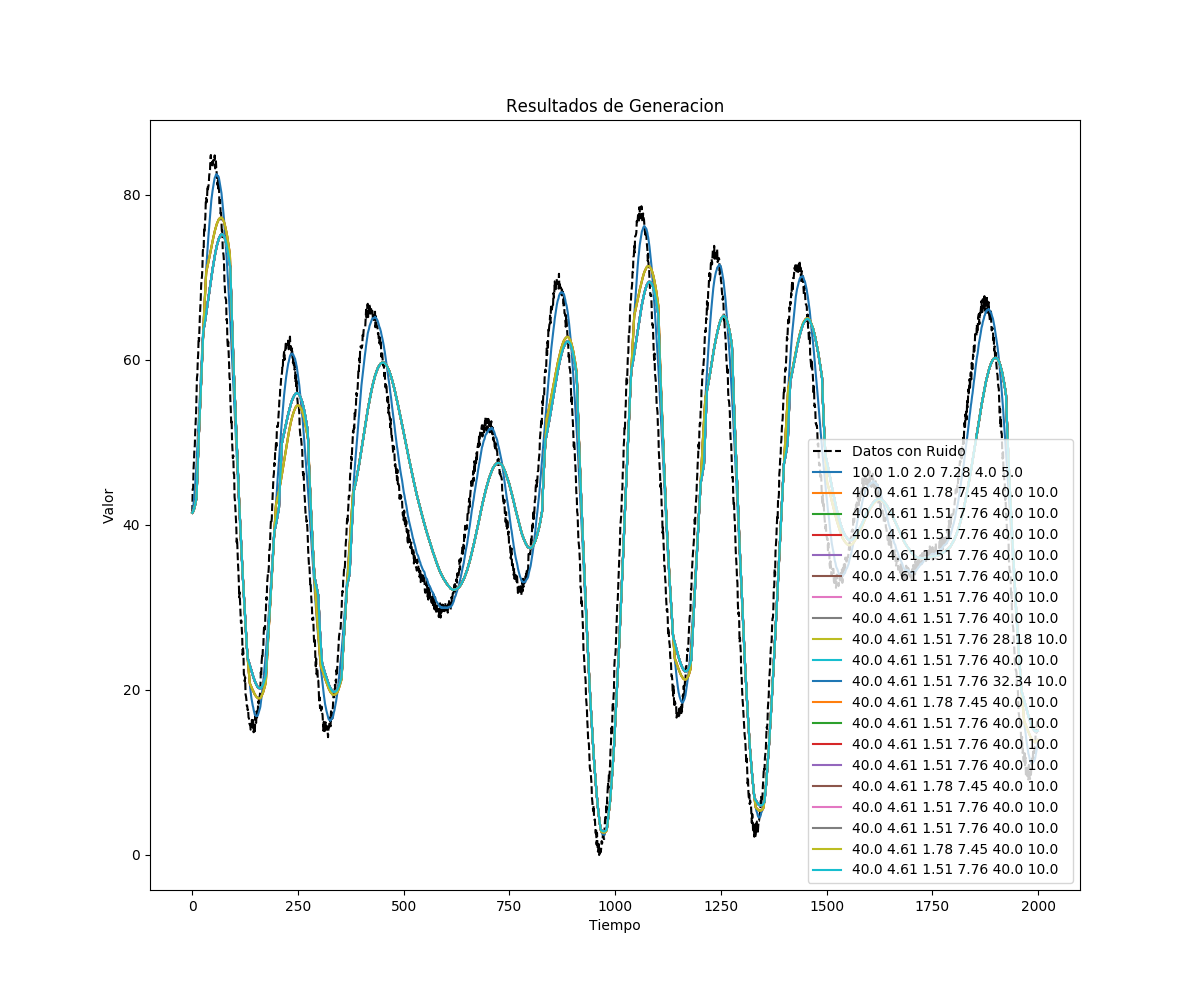
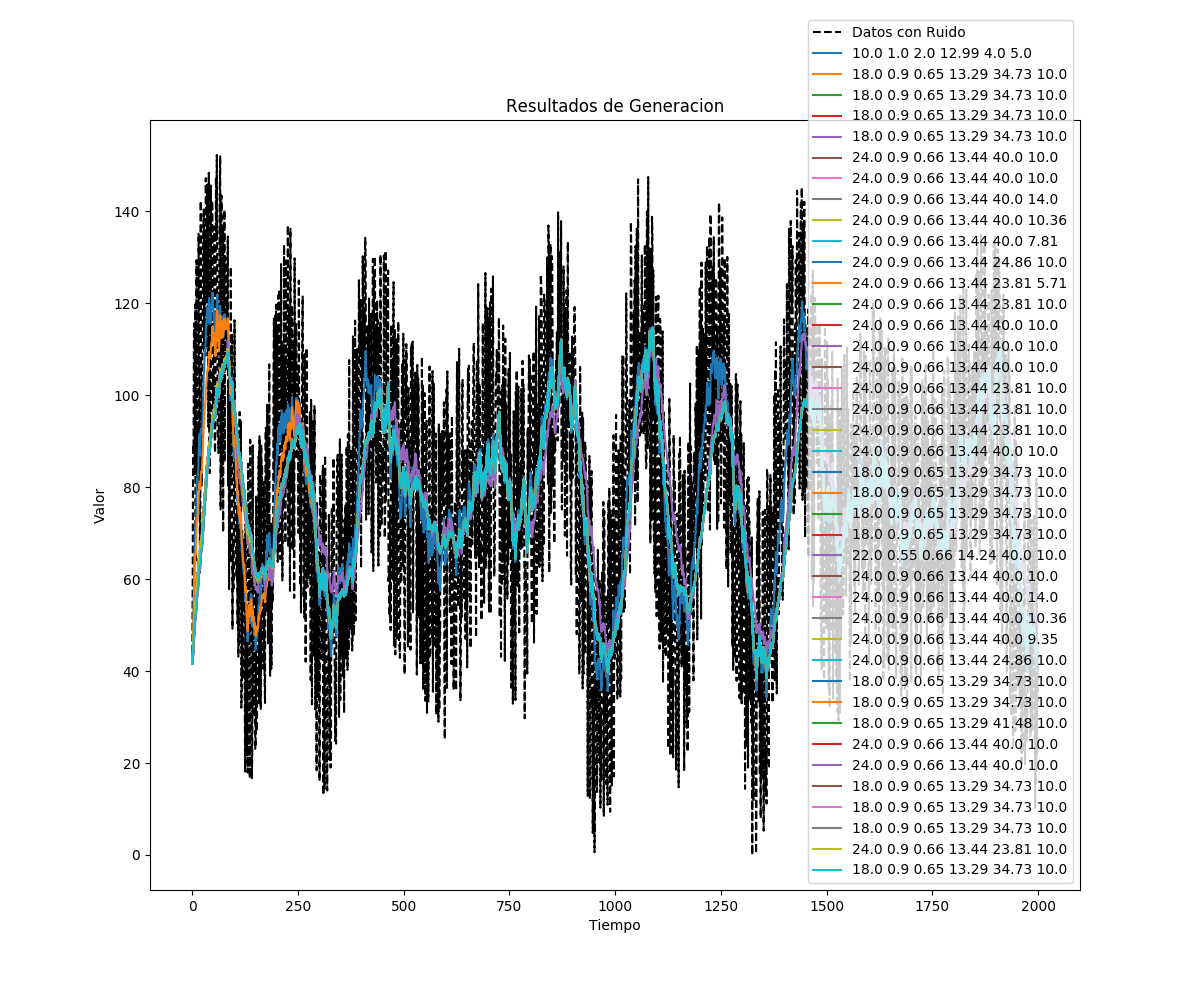
Funcionando

diff --git a/TP/main.py b/TP/main.py
@@ -33,8 +33,8 @@ lim_Nmin = [10, 10]              #Quiza estos parametros hay que incluirlos en l
 lim_N = [lim_Nmin[0], lim_Nmax[1]]
 
 # Parametros del GA ----------------------------------------------------------------------------------------------------------------------
-nGen = 50                      #Generaciones a correr
-pDim = 20                      #Tamaño de la poblacion
+nGen = 101                      #Generaciones a correr
+pDim = 40                      #Tamaño de la poblacion
 pMuta = 5                       #Probabilidad de que un individuo mute expresade en %
 dMuta = 50                      #delta de Muta, osea cuanto puede variar en la mutacion expresado en %
 indx_mut = 0                    #Indice de la mutacion (cuanto puede variar el valor original) Si es 0 el valor del parametro se asigna nuevo
@@ -49,7 +49,7 @@ per = [200, 350, 170]              #Periodos de cada tono
 fase = [0, 0, 1.5]              #Fases de cada tono
 muestras = 2000                  #Tamaño de la señal total
 
-amp_noise = 1                   #Amplitud del ruido
+amp_noise = 40                   #Amplitud del ruido
 
 
 
@@ -165,8 +165,8 @@ for gen in range(nGen):
     error_promedio_gen = error_promedio_gen / len(poblacion_actual)
     evol_error.append(error_promedio_gen)
 
-    archivo = "Evolucion/Gen" + str(gen) + ".png"
-    plot_filtrados(poblacion_actual, datos_orig, salida_filtro, gen)
+    if gen%10 is 0:
+        plot_filtrados(poblacion_actual, datos_orig, salida_filtro, gen)
 
 
     #Asignacion de puntajes
